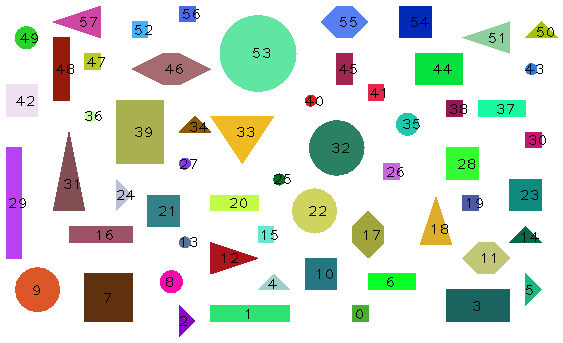
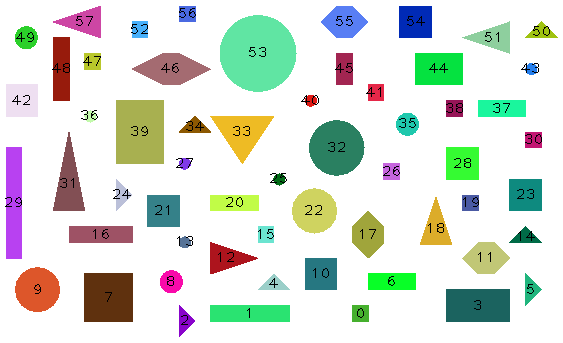
refatoração

diff --git a/trabalho3/trabalho3.py b/trabalho3/trabalho3.py
@@ -18,7 +18,6 @@ def histogram(areas, output_filename):
     print("número de regiões médias: %d" % n[1])
     print("número de regiões grandes: %d" % n[2])
 
-
 def getCentroid(cnt):
     M = cv2.moments(cnt)
     if M['m00'] != 0:
@@ -32,7 +31,6 @@ def getCentroid(cnt):
 def getSolidity(cnt, area):
     #fecho convexo
     convex_hull = cv2.convexHull(cnt)
-
     #area do fecho convexo
     convex_area = cv2.contourArea(convex_hull)
 
@@ -43,14 +41,11 @@ def getSolidity(cnt, area):
     return area/float(convex_area)
 
 def getEccentricity(cnt):
-    _ellipse = cv2.fitEllipse(cnt)
-
-    #centro, tamanho dos eixos e orientação da elipse
-    (center, axis, orientation) = _ellipse
-
-    #comprimento do semieixo maior e semieixo menor
-    max_axle = max(axis)/2
-    min_axle = min(axis)/2
+    #eixos da elipse criada a partir do contorno
+    axis = cv2.fitEllipse(cnt)[1]
+    #comprimentos do maior e menor eixo
+    max_axle = max(axis)    
+    min_axle = min(axis)
 
     return np.sqrt(1-(min_axle/max_axle)**2)
 
@@ -61,14 +56,15 @@ def drawContours(contours, edged, hierarchy):
 
     return drawing
 
-def drawContoursFilled(contours, edged):
+def drawFilledContours(contours, edged):
     drawing = np.full((edged.shape[0], edged.shape[1], 3), 255, dtype=np.uint8)
     for i in range(0, len(contours)):
         cnt = contours[i]
         color = (rand.randint(0, 255), rand.randint(0, 255), rand.randint(0, 255))
         cv2.fillPoly(drawing, pts = [cnt], color=color)
         (cX, cY) = getCentroid(cnt)
-        cv2.putText(drawing, str(i), (cX - 6, cY + 6), cv2.FONT_HERSHEY_PLAIN, 1, 2)
+        txt = str(i)
+        cv2.putText(drawing, txt, (cX - (len(txt)*5), cY + 5), cv2.FONT_HERSHEY_PLAIN, 1, 2)
 
     return drawing
 
@@ -132,7 +128,7 @@ def main():
     areas = extractProperties(contours)
 
     #1.3 - desenhando contornos preenchidos e com rótulos
-    drawing2 = drawContoursFilled(contours, im_bw)
+    drawing2 = drawFilledContours(contours, im_bw)
     cv2.imwrite(output_filename[:-4]+"_contornos_preenchidos"+output_filename[-4:], drawing2)
 
     #1.4 - histograma de área dos objetos
